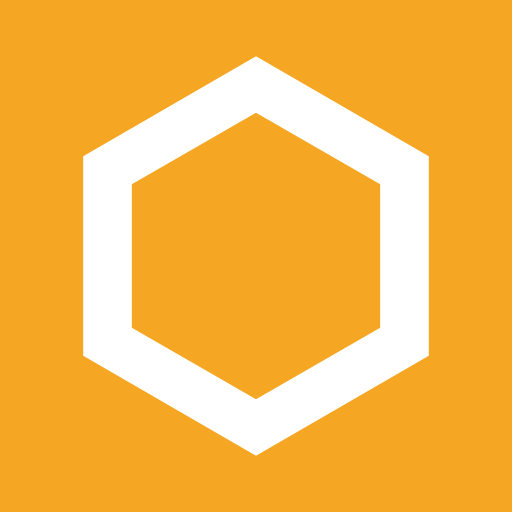
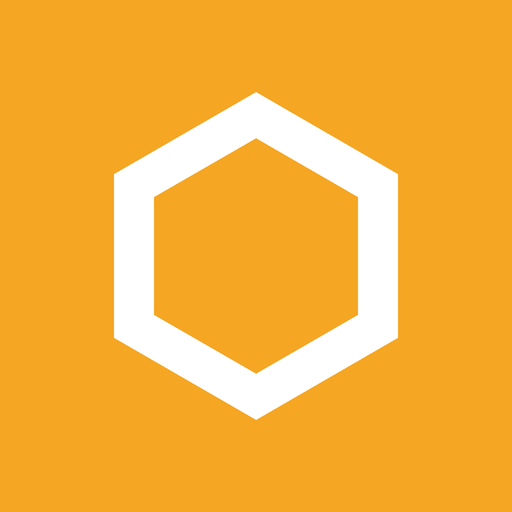
Ustoz ilovasi: yangi logotipni Android ikonkasiga bog'lash, UI qatlashish xatolarini tuzatish
Uchta muammo tuzatildi:

1. Ilova ikonkasi yangilanmasdi — sabab android-release.yml workflow
   `cap add android` bilan har safar YANGI, standart Capacitor
   ikonkasi bilan loyihani qayta yaratardi, lekin ikonka generatsiya
   bosqichi umuman yo'q edi. assets/icon-foreground.png ham bo'sh
   (shaklsiz) edi. Endi: yangi koshin-yulduz shaklidan
   assets/icon-foreground.svg yasaldi (xavfsiz zonada markazlashtirilgan,
   64% balandlik), va workflow'ga `npx @capacitor/assets generate`
   bosqichi qo'shildi — endi har bir build to'g'ri ikonka bilan chiqadi.
   Veb/PWA ikonalar (favicon, apple-touch-icon, icon-192/512) ham shu
   logotipdan aniq vektor hisob-kitob bilan qayta yaratildi (eskilari
   xira/mos emas edi).

2. Pastki tab-bar'da uzun yorliqlar ("Rag'batlantirish", "O'quvchilar")
   qo'shni ustunga chiqib, bir-biriga yopishib ko'rinardi — sabab flex
   ustunlarda `min-w-0` yo'qligi edi (flex-item standart bo'yicha
   matn kengligidan kichraymaydi). Endi min-w-0 + truncate bilan har
   bir yorliq o'z ustuniga sig'adi.

3. O'quvchi profilidagi ma'lumot qatorlarida ("Ro'yxatga olingan" kabi
   uzun label) qiymat (sana) "..." bilan kesilib qolardi, garchi
   qatorda joy bo'lsa ham — label cheksiz joy egallayotgani sabab edi.
   Endi label min-w-0+flex-1 bilan kerak bo'lsa ikki qatorga tushadi,
   qiymat esa shrink-0+max-w-55% bilan kafolatlangan joy oladi.

android/ papka endi .gitignore'ga qo'shildi (u baribir har CI run'da
[…]

Changed region(s): [[0.1562, 0.0938, 0.8438, 0.9062]]

diff --git a/src/pages/teacher/StudentDetail.jsx b/src/pages/teacher/StudentDetail.jsx
@@ -310,16 +310,16 @@ export default function StudentDetail() {
                     <span className="flex h-9 w-9 flex-shrink-0 items-center justify-center rounded-btn bg-accent-light/25 text-accent-dark dark:text-accent">
                       <Icon size={16} />
                     </span>
-                    <span className="text-sm text-fg-muted">{row.label}</span>
+                    <span className="min-w-0 flex-1 text-sm text-fg-muted">{row.label}</span>
                     {row.tel ? (
                       <a
                         href={`tel:${row.value}`}
-                        className="u-press ml-auto truncate text-right text-sm font-semibold text-accent-dark dark:text-accent"
+                        className="u-press ml-auto shrink-0 max-w-[55%] truncate text-right text-sm font-semibold text-accent-dark dark:text-accent"
                       >
                         {row.value}
                       </a>
                     ) : (
-                      <span className="ml-auto truncate text-right text-sm font-semibold text-fg">
+                      <span className="ml-auto shrink-0 max-w-[55%] truncate text-right text-sm font-semibold text-fg">
                         {row.value}
                       </span>
                     )}

diff --git a/src/components/layout/TeacherLayout.jsx b/src/components/layout/TeacherLayout.jsx
@@ -355,7 +355,7 @@ export default function TeacherLayout() {
               onMouseEnter={() => prefetchRoute(item.to)}
               className={({ isActive }) =>
                 cn(
-                  "u-press-sm relative flex flex-1 flex-col items-center gap-1 pb-2 pt-2.5 text-[11px]",
+                  "u-press-sm relative flex min-w-0 flex-1 flex-col items-center gap-1 pb-2 pt-2.5 text-[11px]",
                   isActive
                     ? "text-accent-dark dark:text-accent font-semibold"
                     : "text-fg-muted font-medium hover:text-fg-secondary",
@@ -377,7 +377,9 @@ export default function TeacherLayout() {
                   >
                     <item.icon size={20} />
                   </span>
-                  <span>{t(item.labelKey)}</span>
+                  <span className="w-full truncate px-0.5 text-center leading-tight">
+                    {t(item.labelKey)}
+                  </span>
                 </>
               )}
             </NavLink>
